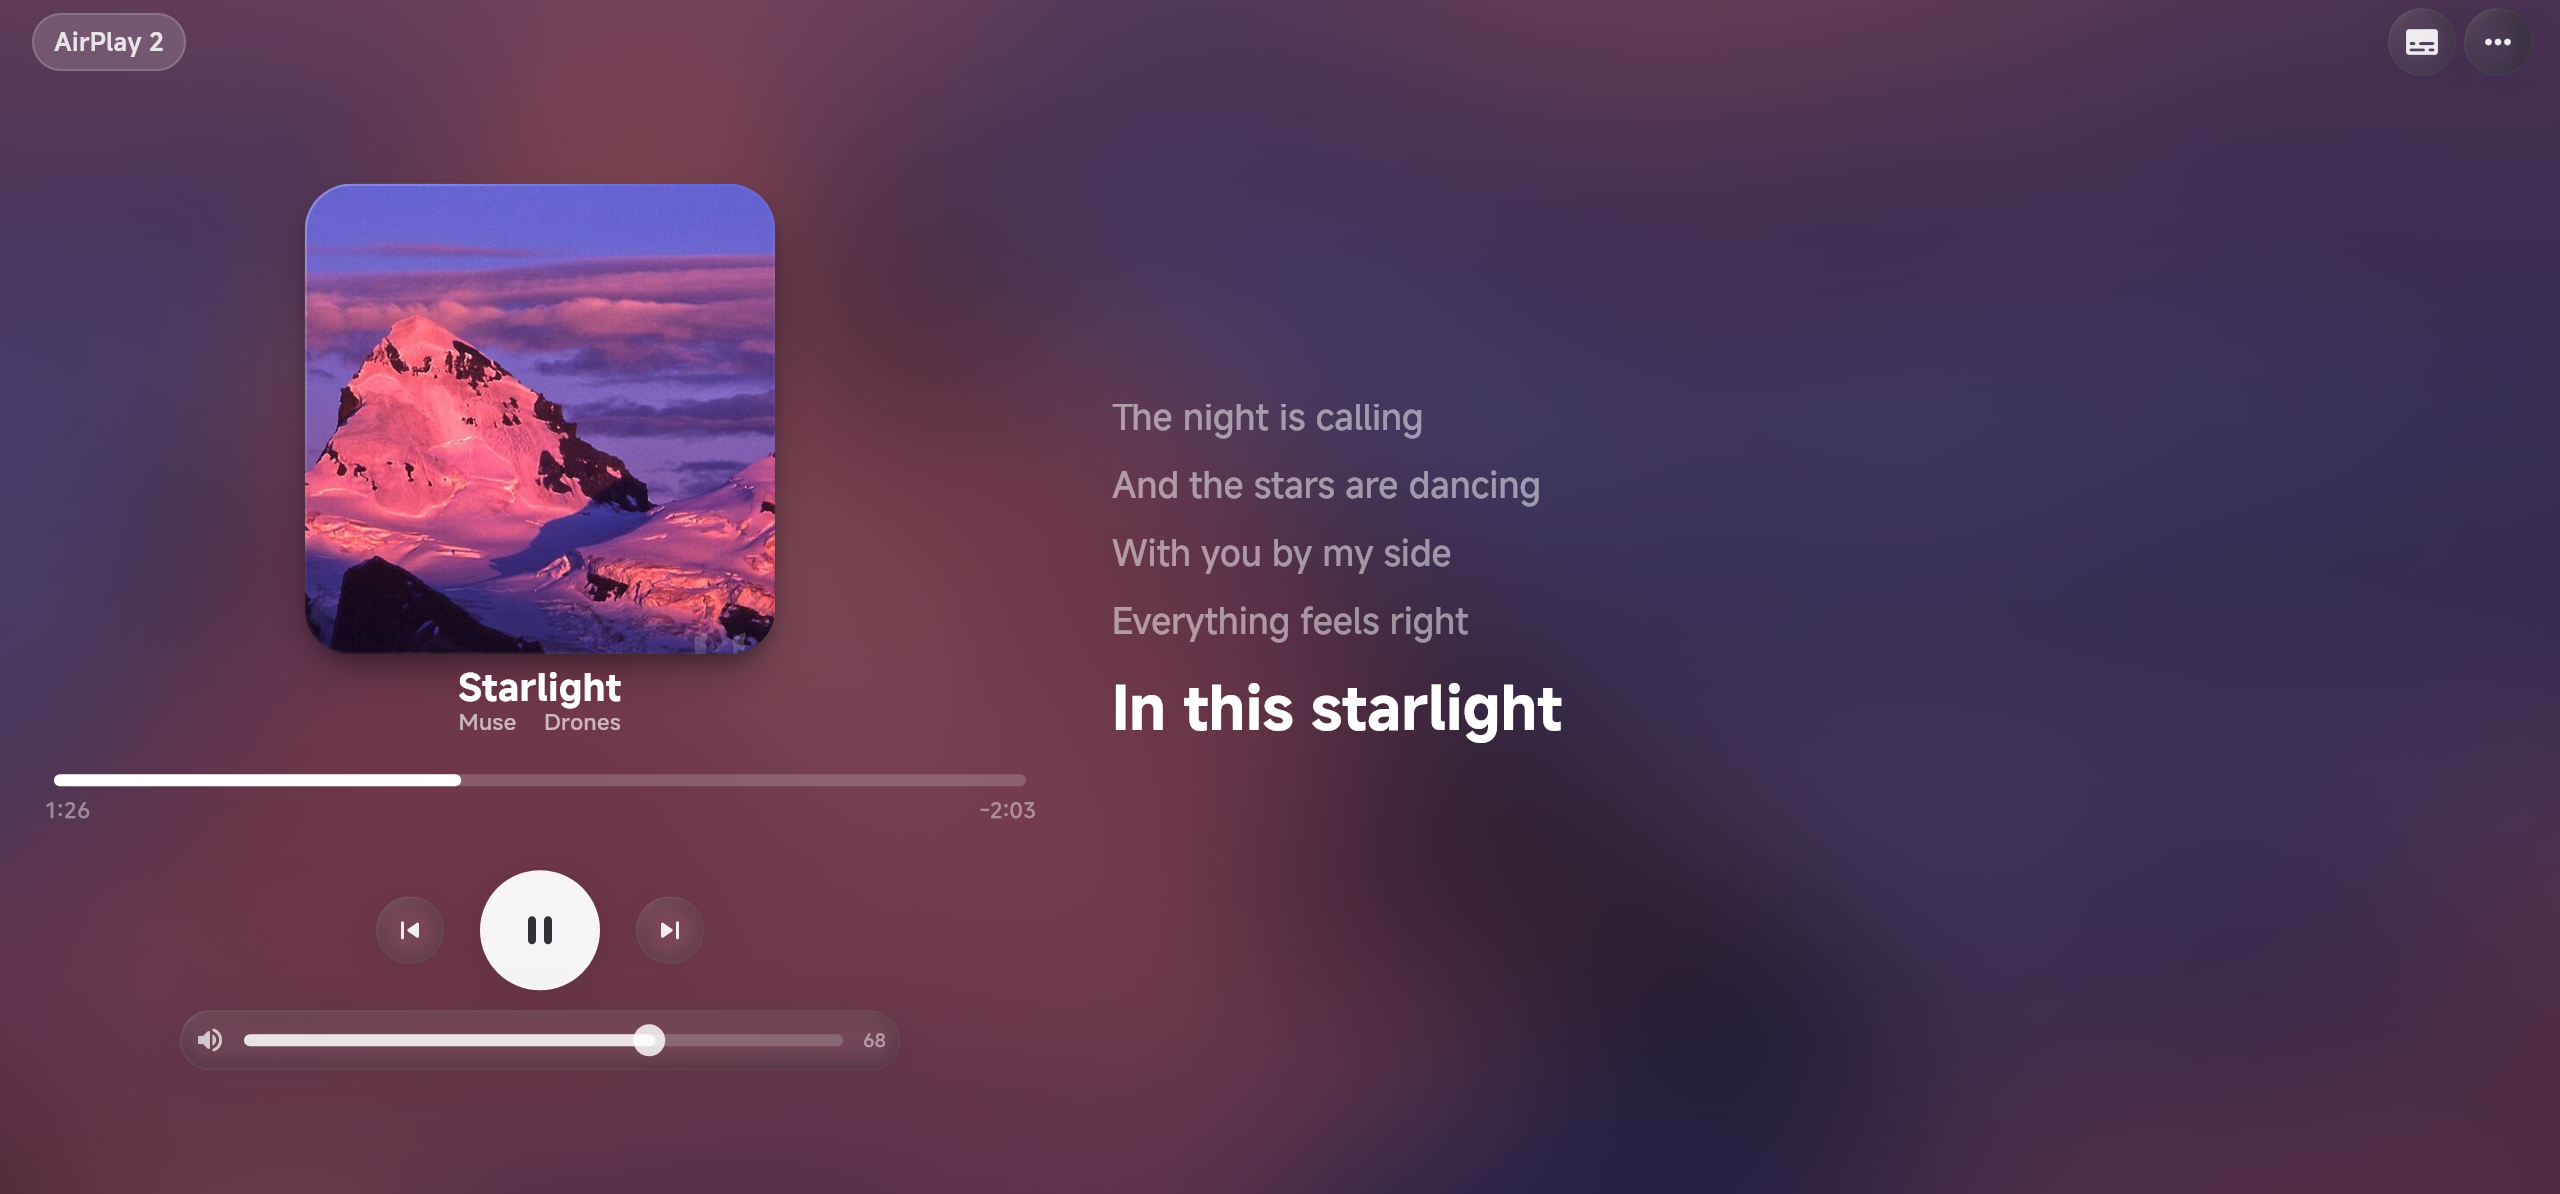
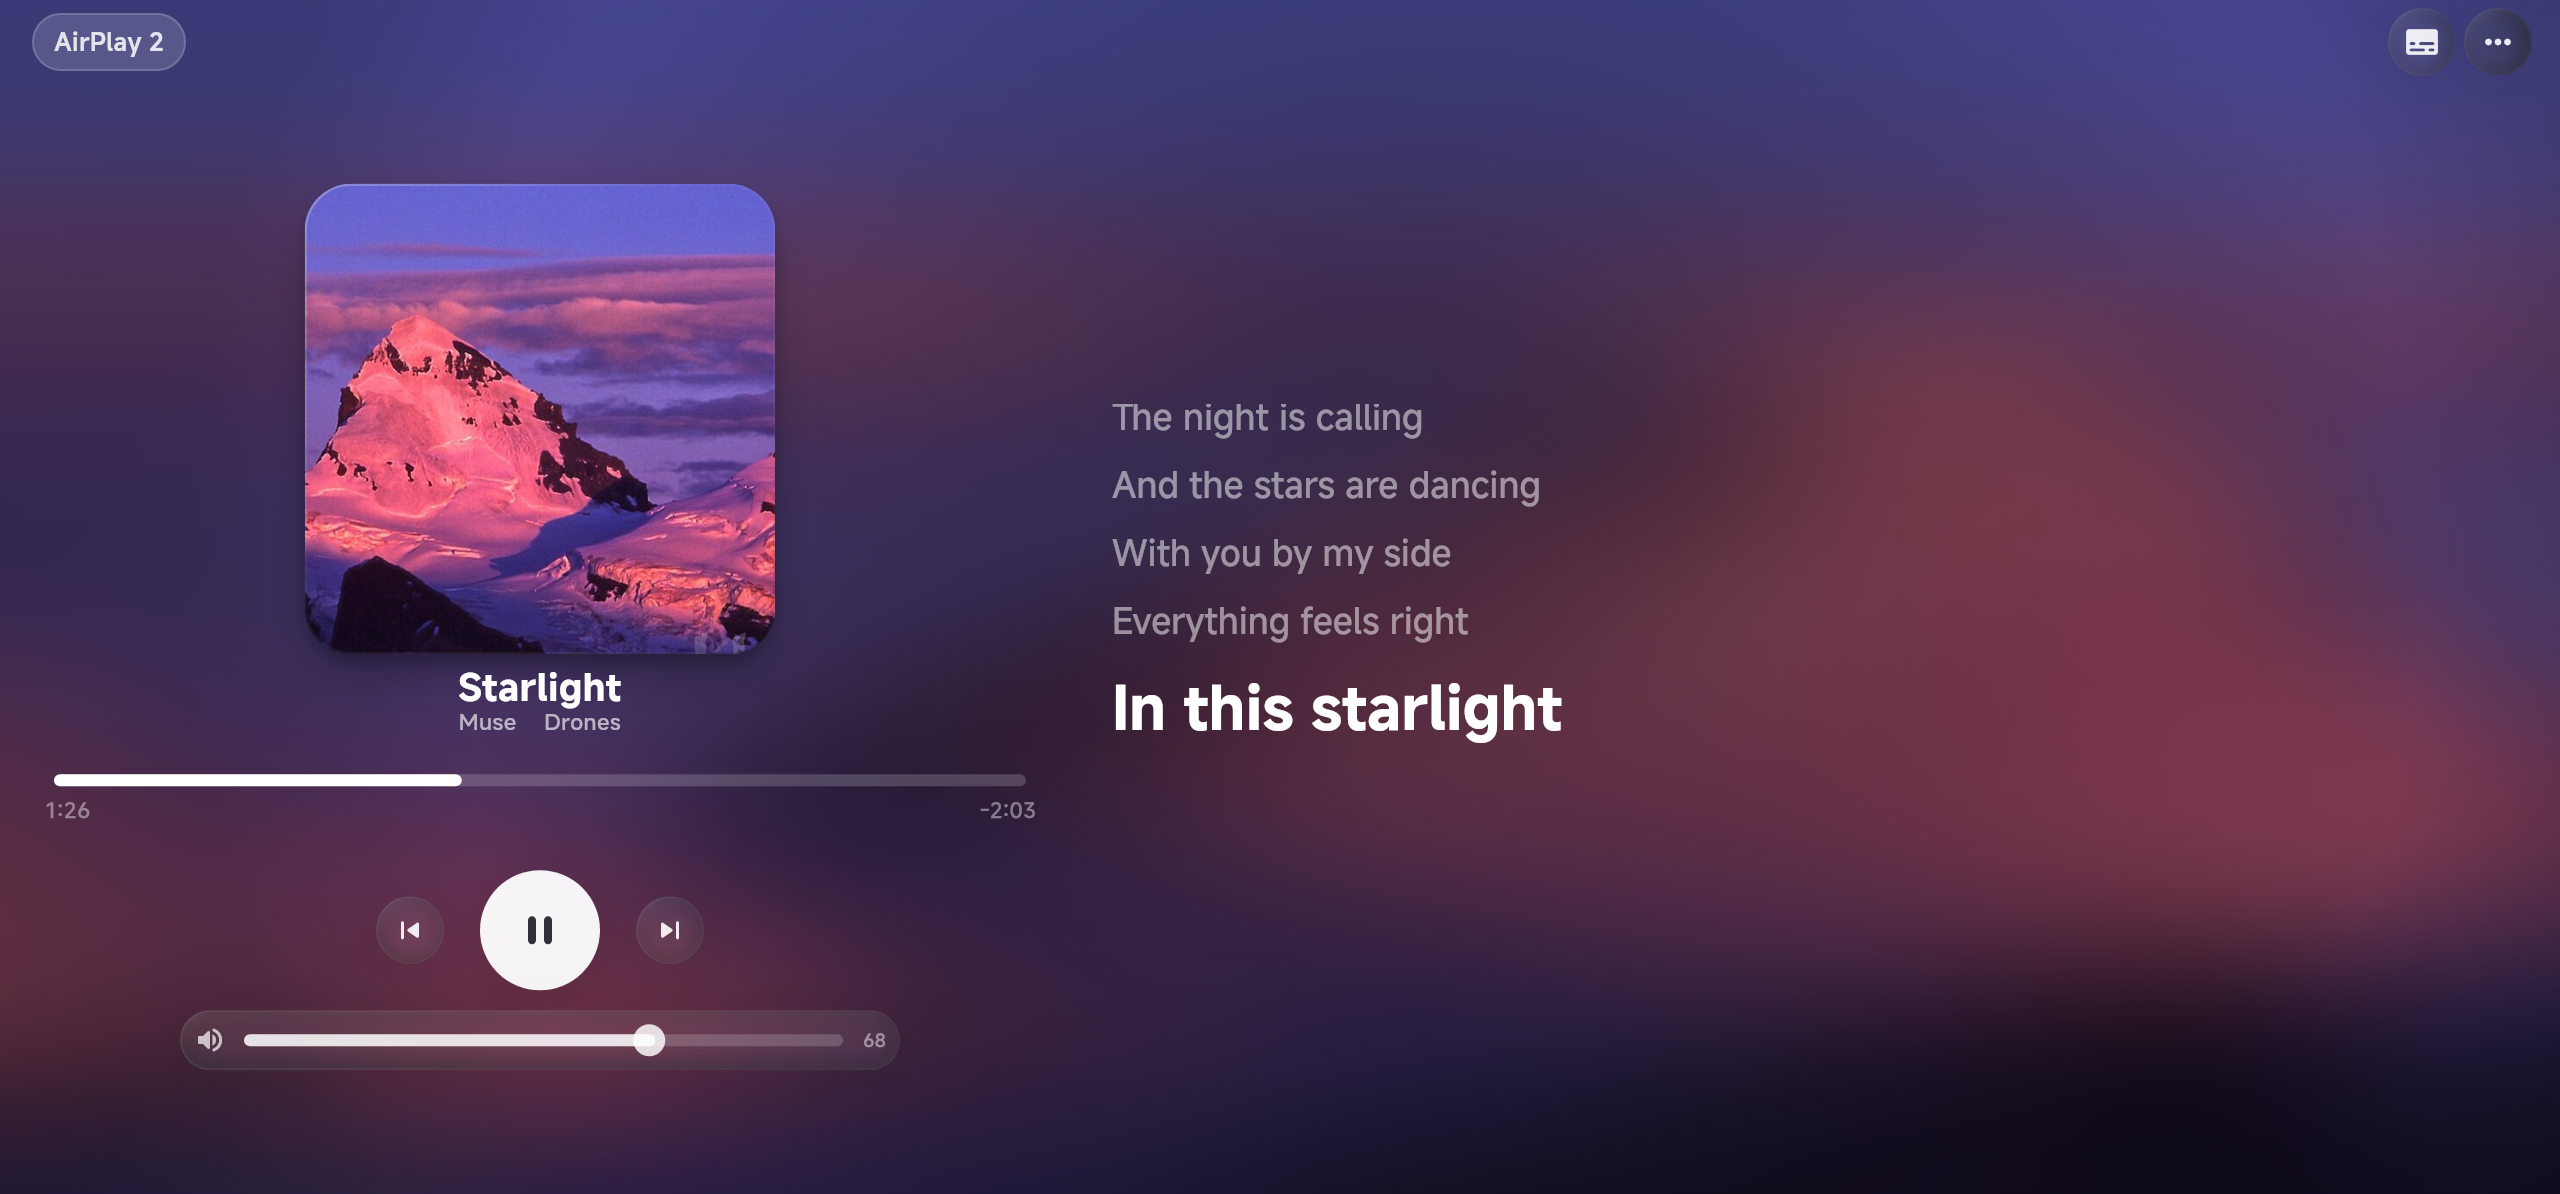
Shape the ambient backdrop from the full album cover and preserve contrast behind lyrics

diff --git a/flutter/lib/ui/artwork.dart b/flutter/lib/ui/artwork.dart
@@ -72,16 +72,24 @@ class PlayerBackdrop extends StatelessWidget {
     fit: StackFit.expand,
     children: [
       ArtworkBackground(source: source, hasPlayback: hasPlayback),
-      // Dark readability gradient over the artwork (YAQMC-style restraint).
       DecoratedBox(
         decoration: BoxDecoration(
-          gradient: LinearGradient(
-            begin: Alignment.topLeft,
-            end: Alignment.bottomRight,
-            colors: source != null && source!.isNotEmpty
-                ? const [Color(0x58101624), Color(0x70121826)]
-                : const [Color(0xCC101316), Color(0xF0101316)],
-          ),
+          gradient: source?.trim().isNotEmpty == true
+              ? const RadialGradient(
+                  center: Alignment(.12, -.05),
+                  radius: 1.05,
+                  colors: [
+                    Color(0x96121728),
+                    Color(0x31101725),
+                    Color(0x60101725),
+                  ],
+                  stops: [0, .79, 1],
+                )
+              : const LinearGradient(
+                  begin: Alignment.topLeft,
+                  end: Alignment.bottomRight,
+                  colors: [Color(0xCC101316), Color(0xF0101316)],
+                ),
         ),
       ),
     ],
@@ -169,7 +177,11 @@ class _ArtworkBackgroundLayer extends StatelessWidget {
         !(MediaQuery.maybeOf(context)?.disableAnimations ?? false);
     final artworkImage = provider == null
         ? null
-        : Image(image: provider!, fit: BoxFit.cover, gaplessPlayback: true);
+        : Image(
+            image: provider!,
+            fit: advancedEffectsEnabled ? BoxFit.fill : BoxFit.cover,
+            gaplessPlayback: true,
+          );
     return DecoratedBox(
       decoration: BoxDecoration(
         color: provider == null && !hasPlayback
@@ -192,13 +204,24 @@ class _ArtworkBackgroundLayer extends StatelessWidget {
         children: [
           if (artworkImage != null)
             advancedEffectsEnabled
-                ? ImageFiltered(
-                    imageFilter: ImageFilter.blur(
-                      sigmaX: 48,
-                      sigmaY: 48,
-                      tileMode: TileMode.clamp,
-                    ),
-                    child: artworkImage,
+                ? LayoutBuilder(
+                    builder: (context, bounds) {
+                      final shortSide = bounds.biggest.shortestSide;
+                      final blur = (shortSide * .061)
+                          .clamp(16.0, 65.0)
+                          .toDouble();
+                      // Spread the whole artwork palette across the viewport.
+                      // Reflect only the backdrop so its brightest features
+                      // need not sit directly behind their sharp equivalents.
+                      return ImageFiltered(
+                        imageFilter: ImageFilter.blur(
+                          sigmaX: blur * 1.45,
+                          sigmaY: blur,
+                          tileMode: TileMode.clamp,
+                        ),
+                        child: Transform.flip(flipX: true, child: artworkImage),
+                      );
+                    },
                   )
                 : artworkImage,
           if (provider != null)
@@ -216,8 +239,6 @@ class _ArtworkBackgroundLayer extends StatelessWidget {
                 ),
               ),
             ),
-          if (provider != null)
-            const ColoredBox(color: Color.fromRGBO(255, 255, 255, .05)),
         ],
       ),
     );

diff --git a/fusionplay-ui-audit-codex/cover-study/README.md b/fusionplay-ui-audit-codex/cover-study/README.md
@@ -11,6 +11,14 @@
 
 ![封面下缘与投影对照](lower-edge-comparison.jpg)
 
+## 封面背景
+
+下图左侧为 50ec4b8，右侧为本轮。两张图使用同一张雪山封面和相同的歌词状态。
+
+![背景变化对比](backdrop-comparison.jpg)
+
+PlayerBackdrop 接收与前景相同的封面源。背景把完整画面铺满视口并水平翻转，保留取自封面边缘的颜色。短边决定高斯模糊尺度，横向模糊稍宽；中央用局部暗色渐变给文字留出对比度。无歌词与有歌词共用此路径。白天的浅色封面和夜景封面会产生不同的背景色。关闭高级效果时仍使用原有的无模糊路径。
+
 ## 两个可借鉴的实现
 
 | 方案与实际代码 | 在 FusionPlay 中采用的处理 |
